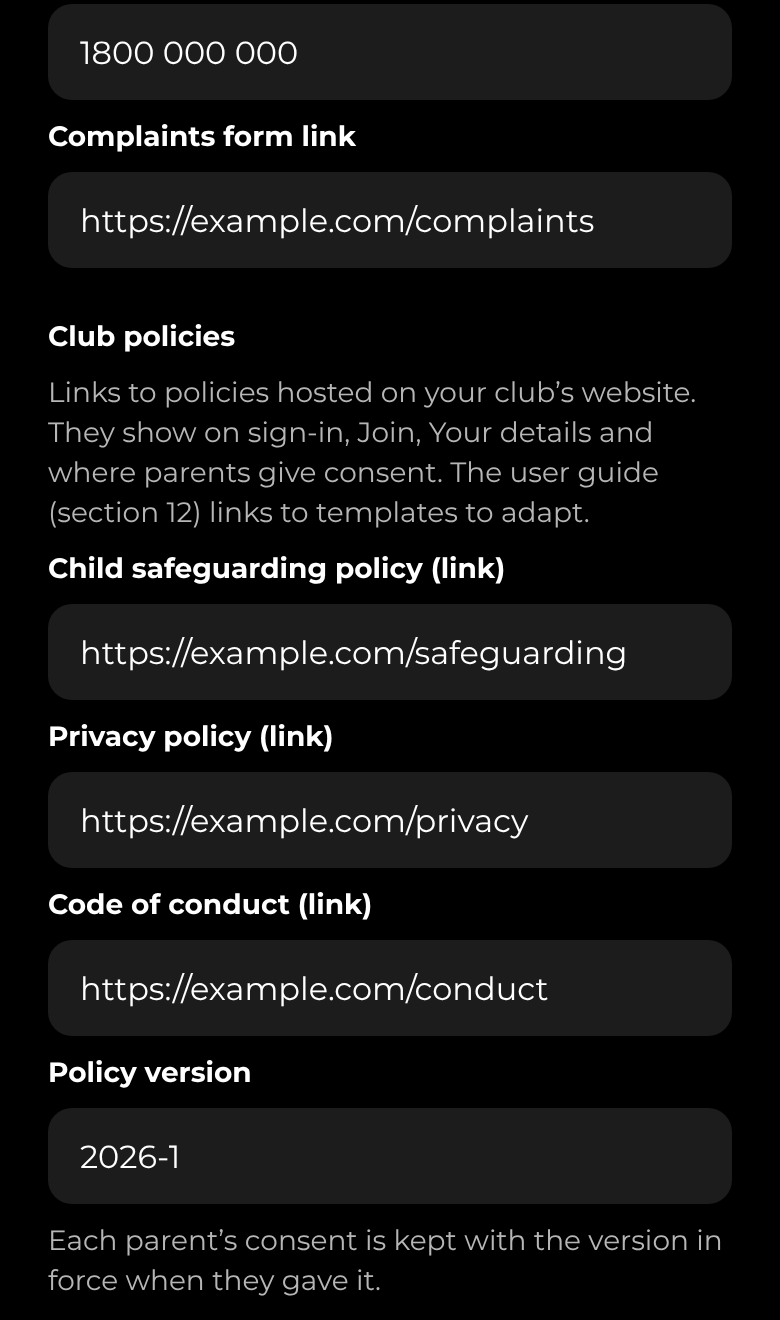
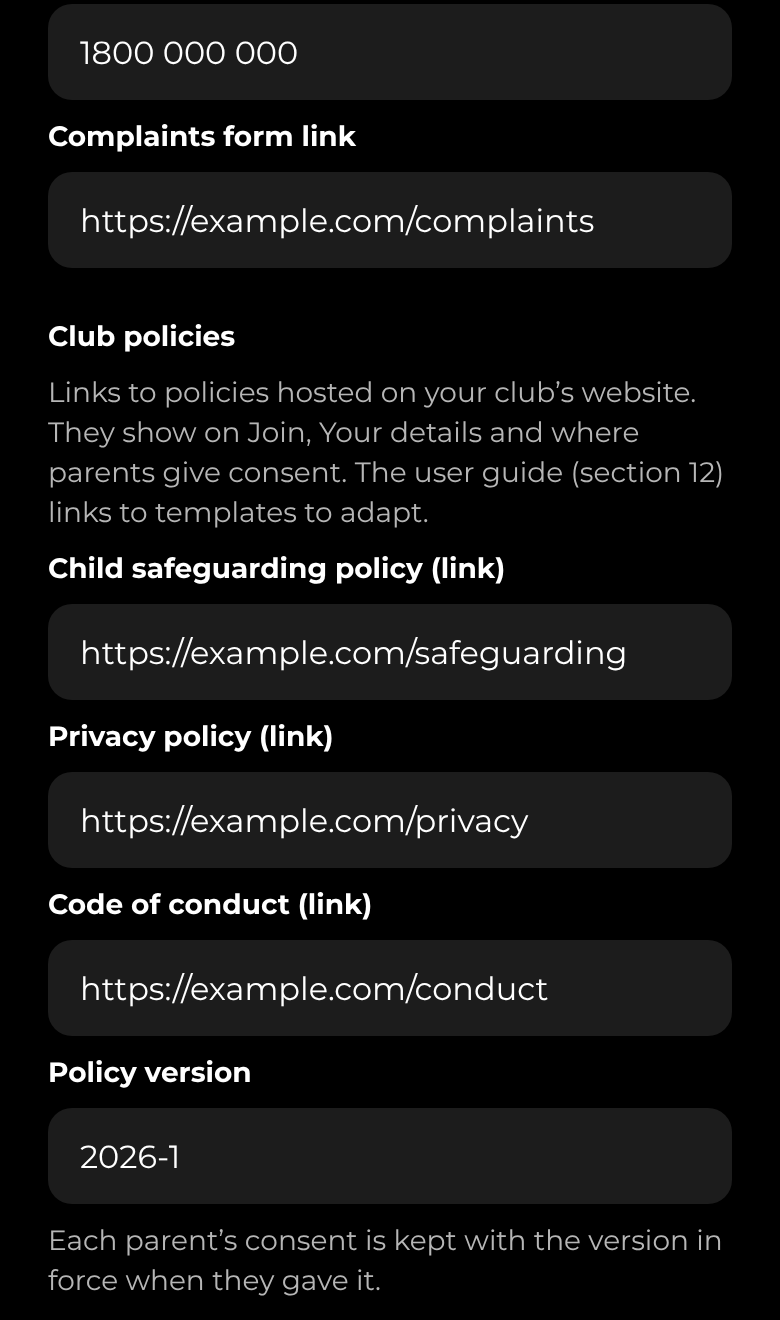
Keep the club's policy links for signed-in members
The migration security check refuses functions that signed-out visitors
can call, so club_policies is now revoked from anon and granted only to
signed-in members (including people asking to join). The links no longer
show on the sign-in screen; they stay on Join, Your details and the
consent screen. Guide, admin hint and screenshots updated to match.

Claude-Session: https://claude.ai/code/session_01PSj6UtGHkyxoGwMZG7YNkM

Changed region(s): [[0.0615, 0.3106, 0.9231, 0.4038]]

diff --git a/src/app/admin/safeguarding.tsx b/src/app/admin/safeguarding.tsx
@@ -169,8 +169,8 @@ export default function SafeguardingScreen() {
       <View style={styles.group}>
         <ThemedText type="smallBold">Club policies</ThemedText>
         <ThemedText type="small" themeColor="textSecondary">
-          Links to policies hosted on your club’s website. They show on sign-in, Join, Your details
-          and where parents give consent. The user guide (section 12) links to templates to adapt.
+          Links to policies hosted on your club’s website. They show on Join, Your details and
+          where parents give consent. The user guide (section 12) links to templates to adapt.
         </ThemedText>
         <TextField
           label="Child safeguarding policy (link)"

diff --git a/src/app/sign-in.tsx b/src/app/sign-in.tsx
@@ -4,7 +4,6 @@ import { ActivityIndicator, Pressable, StyleSheet, View } from "react-native";
 import { SafeAreaView } from "react-native-safe-area-context";
 
 import { PoweredByFirstPass } from "@/components/firstpass-logo";
-import { PolicyLinks } from "@/components/policy-links";
 import { ThemedText } from "@/components/themed-text";
 import { ThemedView } from "@/components/themed-view";
 import { MaxContentWidth, Spacing } from "@/constants/theme";
@@ -93,7 +92,6 @@ export default function SignInScreen() {
                 </ThemedText>
               </ThemedText>
             </Pressable>
-            <PolicyLinks centred />
           </View>
         </View>
 

diff --git a/docs/user-guide.md b/docs/user-guide.md
@@ -166,8 +166,7 @@ picked. The app remembers your club after that.
 Tap **Continue with Google** and choose your Google account. There are no passwords to remember:
 Google sign-in is the only way in. The same button is used whether you're new or coming back.
 
-If you picked the wrong club, tap **Change club** under the button. Links to the club's privacy
-policy, child safeguarding policy and code of conduct show below it, once the club has added them.
+If you picked the wrong club, tap **Change club** under the button.
 
 <img src="user-guide/sign-in.png" width="210" alt="Sign-in screen">
 
@@ -1429,7 +1428,7 @@ start with https://.
 
 Under **Club policies**, add links to the club's **child safeguarding policy**, **privacy
 policy** and **code of conduct**, hosted on your club's website, and the **policy version**. The
-links show on sign-in, Join, Your details and the parents' consent screen. Each parent's consent is
+links show on Join, Your details and the parents' consent screen. Each parent's consent is
 kept with the version in force when they gave it, so change the version when you change a policy.
 Templates to adapt are in [docs/policies](policies/README.md).
 
@@ -1495,7 +1494,7 @@ once saved, only replaced or removed, and anyone who gets it wrong five times in
 | Injuries and documents  | For an athlete under 18 whose parents haven't given consent for injuries: only the athlete, their guardians and admins. Otherwise the athlete, their guardians, their coaches, the physios who look after them (the Head Physio, physios in their squad or team, and physios in no squad or team), the committee and admins. Managers don't see injuries. Only the committee member or admin accepting a clearance can share its documents, while it waits for them; everyone else views them in the app. |
 | Who opened injury documents | The athlete, their guardians and admins: every view and share, by whom, their role and when, and each photo consent. |
 | Consents for a child    | The athlete, their parents or guardians and admins, with every consent given and withdrawn. Only a verified parent or guardian can give or withdraw one. |
-| Club policies           | Everyone, including people who haven't signed in.                                                                           |
+| Club policies           | Everyone signed in, including people asking to join.                                                                        |
 | Game goals and reflections | The athlete, their guardians and their coaches. Only the athlete and their coaches set goals, and only the athlete reflects; guardians just read them. The committee, physios and admins don't see them. |
 | Team goals              | The team's athletes, their guardians and its coaches. Only its coaches set and review them. Athletes and coaches in the team can comment; guardians read the comments. |
 | Integrity training certificates | The member, their parents or guardians, the committee and admins. Coaches don't see them. Certificates can't be changed or removed once sent. |
